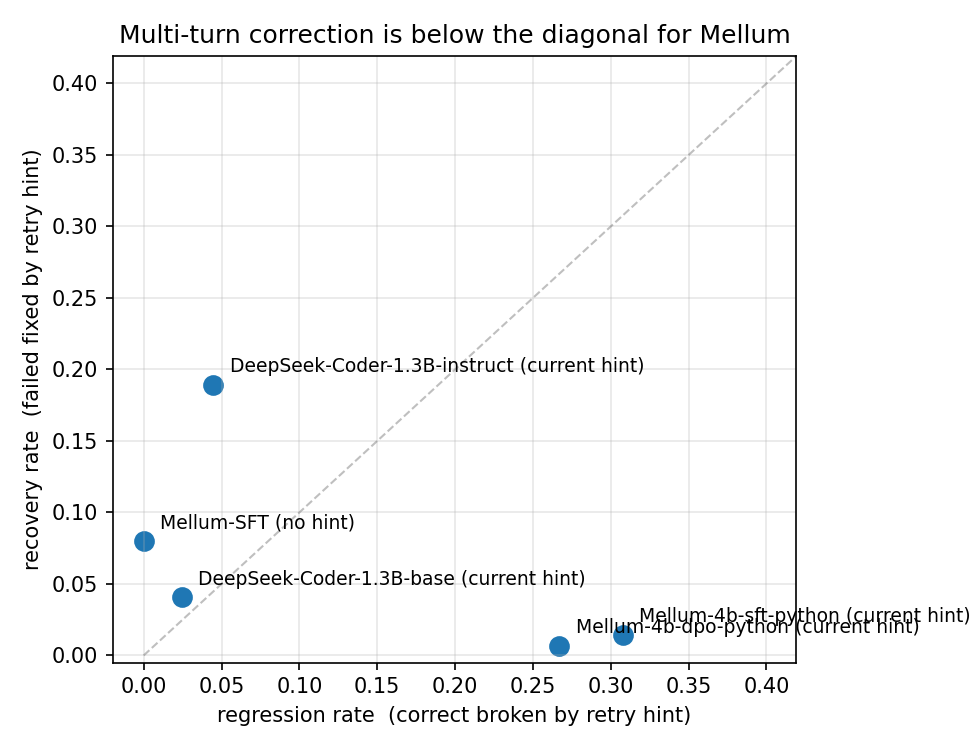
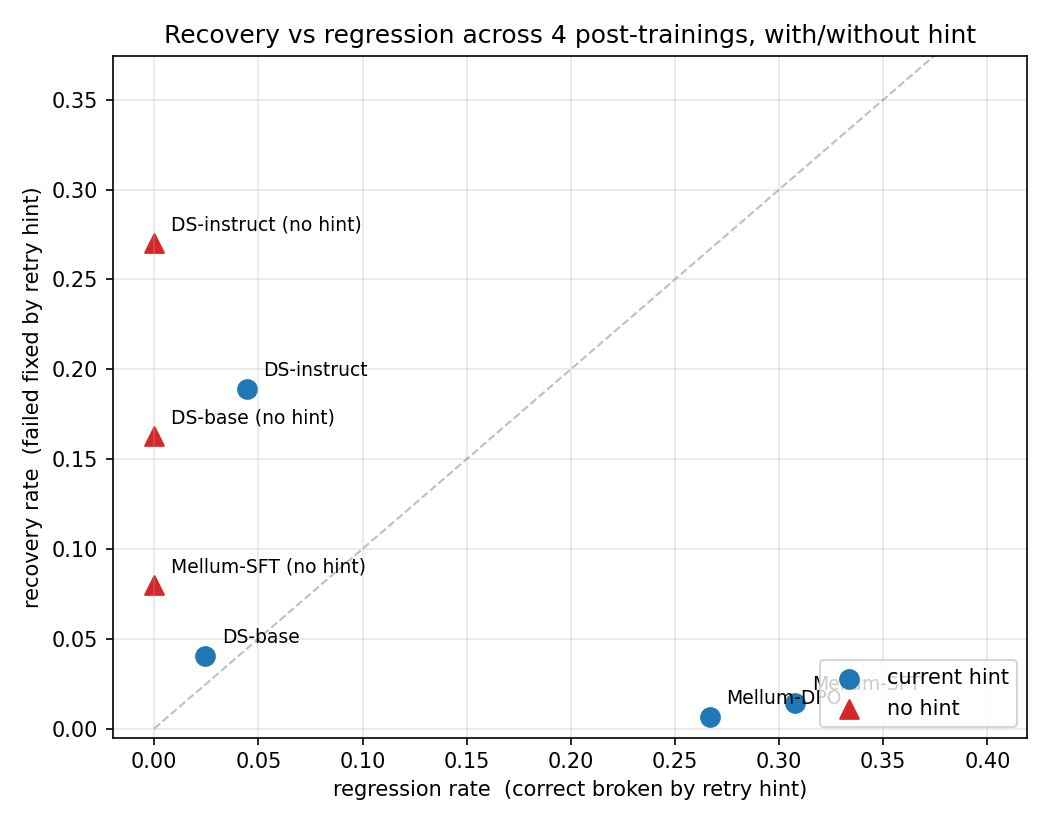
plot: add no-hint points for DS-base and DS-instruct
The plot was showing only Mellum-SFT no-hint while DS-base no-hint
(16.3%) and DS-instruct no-hint (27.0%) sat in the data unused.
Now seven points: four 'current hint' (blue circles) on the
hint-vs-regression trade, three 'no hint' (red triangles) at x=0
showing recovery without the regression cost. The no-hint points
form a clean ladder by capability (Mellum-SFT 8% < DS-base 16% <
DS-instruct 27%).

diff --git a/scripts/make_plot.py b/scripts/make_plot.py
@@ -27,47 +27,57 @@ def regression_rate(reg_path: Path) -> tuple[float, int, int]:
 
 
 def main() -> None:
-    points = []
+    hint_points = []
+    nohint_points = []
     for tag, label in [
-        ("mellum_sft", "Mellum-4b-sft-python"),
-        ("mellum_dpo", "Mellum-4b-dpo-python"),
-        ("ds_base", "DeepSeek-Coder-1.3B-base"),
-        ("ds_instruct", "DeepSeek-Coder-1.3B-instruct"),
+        ("mellum_sft", "Mellum-SFT"),
+        ("mellum_dpo", "Mellum-DPO"),
+        ("ds_base", "DS-base"),
+        ("ds_instruct", "DS-instruct"),
     ]:
         mt = RESULTS / f"{tag}_multiturn.jsonl"
         reg = RESULTS / f"{tag}_regression.jsonl"
-        if not (mt.exists() and reg.exists()):
-            continue
-        rec, _, _ = recovery_rate(mt)
-        regr, _, _ = regression_rate(reg)
-        points.append((label + " (current hint)", regr, rec))
+        if mt.exists() and reg.exists():
+            rec, _, _ = recovery_rate(mt)
+            regr, _, _ = regression_rate(reg)
+            hint_points.append((label, regr, rec))
+        nohint = RESULTS / f"{tag}_multiturn_nohint.jsonl"
+        if nohint.exists():
+            rec, _, _ = recovery_rate(nohint)
+            nohint_points.append((label + " (no hint)", 0.0, rec))
 
-    nohint_path = RESULTS / "mellum_sft_multiturn_nohint.jsonl"
-    if nohint_path.exists():
-        rec, _, _ = recovery_rate(nohint_path)
-        points.append(("Mellum-SFT (no hint)", 0.0, rec))
-
-    fig, ax = plt.subplots(figsize=(6.5, 5))
-    xs = [p[1] for p in points]
-    ys = [p[2] for p in points]
-    ax.scatter(xs, ys, s=80, color="#1f77b4")
-    for label, x, y in points:
-        ax.annotate(label, (x, y), textcoords="offset points",
-                    xytext=(8, 6), fontsize=9)
-    lim = max(max(xs, default=0), max(ys, default=0)) * 1.2 + 0.05
+    fig, ax = plt.subplots(figsize=(7, 5.5))
+    if hint_points:
+        xs = [p[1] for p in hint_points]
+        ys = [p[2] for p in hint_points]
+        ax.scatter(xs, ys, s=80, color="#1f77b4", label="current hint")
+        for label, x, y in hint_points:
+            ax.annotate(label, (x, y), textcoords="offset points",
+                        xytext=(8, 6), fontsize=9)
+    if nohint_points:
+        xs2 = [p[1] for p in nohint_points]
+        ys2 = [p[2] for p in nohint_points]
+        ax.scatter(xs2, ys2, s=80, color="#d62728", marker="^", label="no hint")
+        for label, x, y in nohint_points:
+            ax.annotate(label, (x, y), textcoords="offset points",
+                        xytext=(8, 6), fontsize=9)
+    all_xs = [p[1] for p in hint_points] + [p[1] for p in nohint_points]
+    all_ys = [p[2] for p in hint_points] + [p[2] for p in nohint_points]
+    lim = max(max(all_xs, default=0), max(ys, default=0)) * 1.2 + 0.05
     ax.plot([0, lim], [0, lim], "--", color="grey", linewidth=1, alpha=0.5)
     ax.set_xlabel("regression rate  (correct broken by retry hint)")
     ax.set_ylabel("recovery rate  (failed fixed by retry hint)")
-    ax.set_title("Multi-turn correction is below the diagonal for Mellum")
+    ax.set_title("Recovery vs regression across 4 post-trainings, with/without hint")
     ax.set_xlim(-0.02, lim)
-    ax.set_ylim(-0.005, lim)
+    ax.set_ylim(-0.005, max(all_ys, default=0) * 1.2 + 0.05)
     ax.grid(alpha=0.3)
+    ax.legend(loc="lower right")
     out = Path("assets/recovery_vs_regression.png")
     out.parent.mkdir(parents=True, exist_ok=True)
     fig.tight_layout()
     fig.savefig(out, dpi=150)
     print(f"wrote {out}")
-    for label, x, y in points:
+    for label, x, y in hint_points + nohint_points:
         print(f"  {label}: regression={x:.1%} recovery={y:.1%}")
 
 